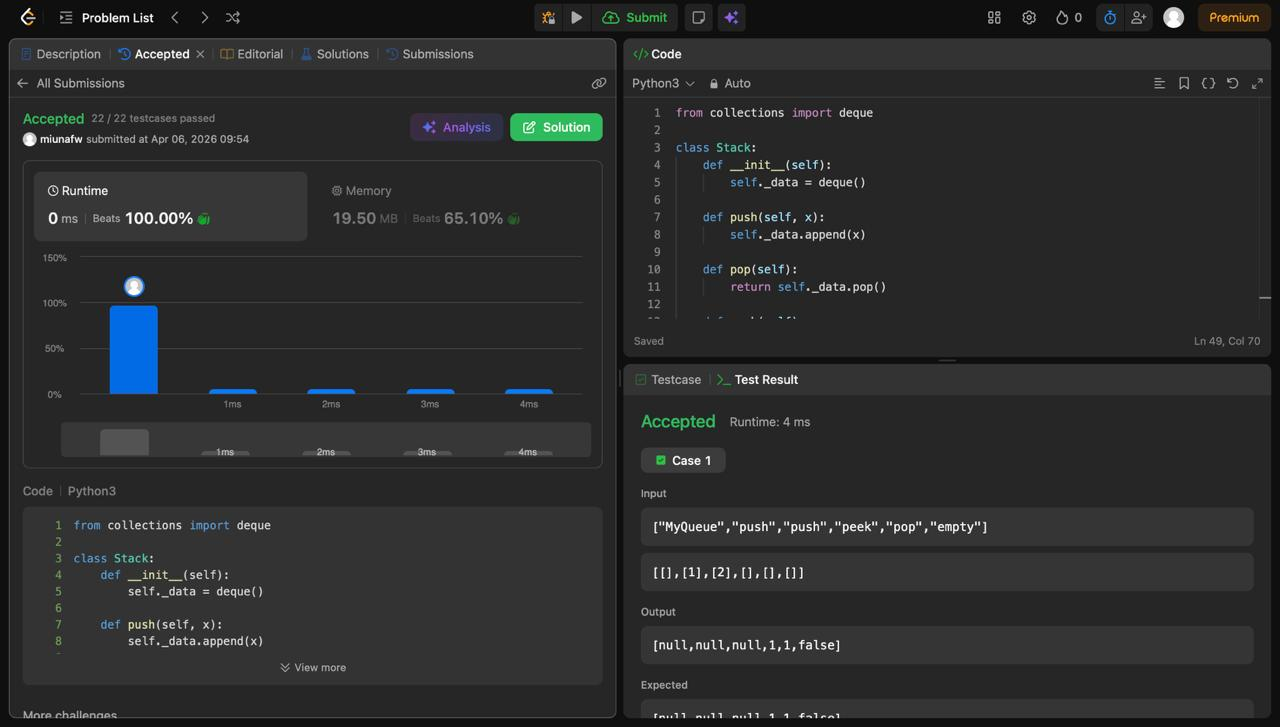
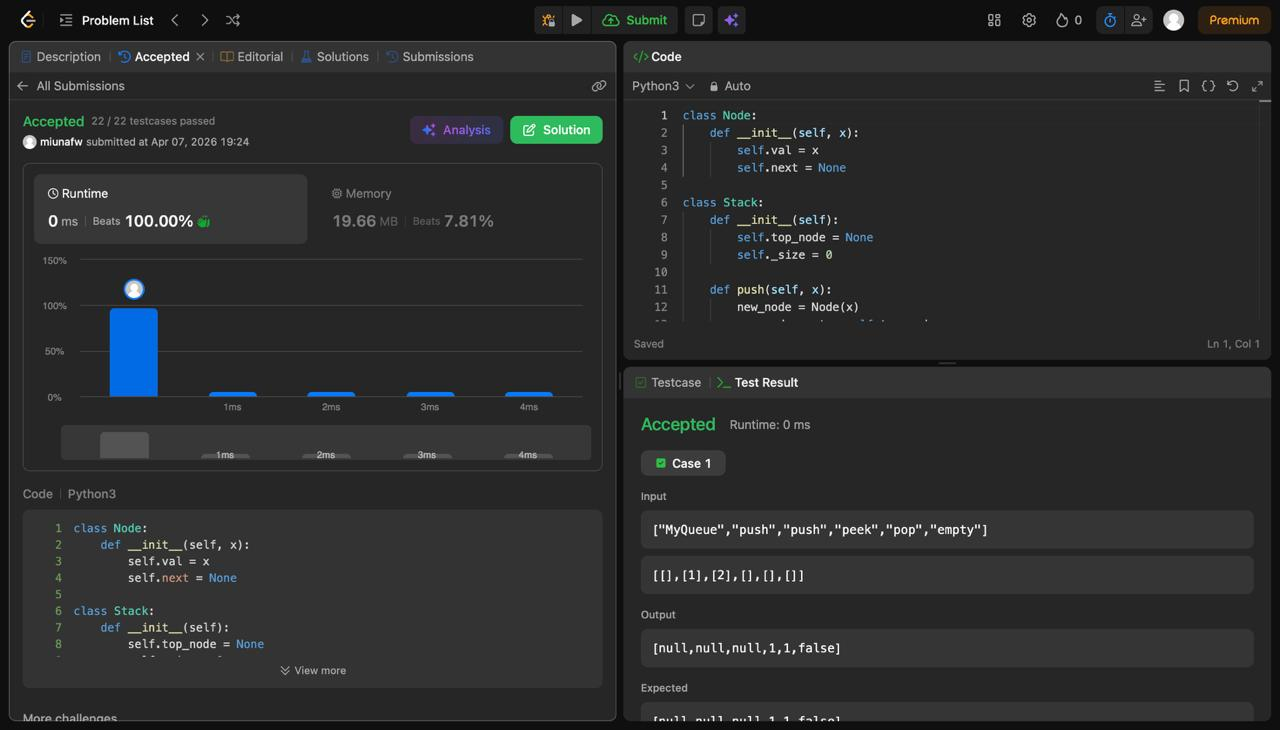
Complete rewrite: use Node-based structures and add test screenshots

diff --git a/Implement-Stack-using-Queues/solution.py b/Implement-Stack-using-Queues/solution.py
@@ -1,44 +1,39 @@
-from collections import deque
+class Node:
+    def __init__(self, x):
+        self.val = x
+        self.next = None
 
 class Queue:
     def __init__(self):
-        self._data = deque()
-
+        self.head = self.tail = None
     def push(self, x):
-        self._data.append(x)
-
+        new_node = Node(x)
+        if not self.tail: self.head = self.tail = new_node
+        else:
+            self.tail.next = new_node
+            self.tail = new_node
     def pop(self):
-        return self._data.popleft()
-
+        res = self.head.val
+        self.head = self.head.next
+        if not self.head: self.tail = None
+        return res
     def peek(self):
-        val = self._data.popleft()
-        self._data.append(val)
-        return val
-
+        return self.head.val
     def is_empty(self):
-        return len(self._data) == 0
-
-    def size(self):
-        return len(self._data)
-
+        return self.head is None
 
 class MyStack:
-
     def __init__(self):
-        self.queue1 = Queue()
-        self.queue2 = Queue()
-
+        self.q1 = Queue()
+        self.q2 = Queue()
     def push(self, x: int) -> None:
-        self.queue2.push(x)
-        while not self.queue1.is_empty():
-            self.queue2.push(self.queue1.pop())
-        self.queue1, self.queue2 = self.queue2, self.queue1
-
+        self.q2.push(x)
+        while not self.q1.is_empty():
+            self.q2.push(self.q1.pop())
+        self.q1, self.q2 = self.q2, self.q1
     def pop(self) -> int:
-        return self.queue1.pop()
-
+        return self.q1.pop()
     def top(self) -> int:
-        return self.queue1.peek()
-
+        return self.q1.peek()
     def empty(self) -> bool:
-        return self.queue1.is_empty()
+        return self.q1.is_empty()

diff --git a/Implement-Queue-using-Stacks/solution.py b/Implement-Queue-using-Stacks/solution.py
@@ -1,49 +1,37 @@
-from collections import deque
+class Node:
+    def __init__(self, x):
+        self.val = x
+        self.next = None
 
 class Stack:
     def __init__(self):
-        self._data = deque()
-
+        self.top_node = None
     def push(self, x):
-        self._data.append(x)
-
+        new_node = Node(x)
+        new_node.next = self.top_node
+        self.top_node = new_node
     def pop(self):
-        return self._data.pop()
-
+        res = self.top_node.val
+        self.top_node = self.top_node.next
+        return res
     def peek(self):
-        val = self._data.pop()
-        self._data.append(val)
-        return val
-
+        return self.top_node.val
     def is_empty(self):
-        return len(self._data) == 0
-
-    def size(self):
-        return len(self._data)
-
-
+        return self.top_node is None
 
 class MyQueue:
-
     def __init__(self):
-        self.stack_in = Stack() 
-        self.stack_out = Stack() 
-
+        self.stack_in = Stack()
+        self.stack_out = Stack()
     def push(self, x: int) -> None:
         self.stack_in.push(x)
-
-    def _transfer(self):
+    def pop(self) -> int:
+        self.peek()
+        return self.stack_out.pop()
+    def peek(self) -> int:
         if self.stack_out.is_empty():
             while not self.stack_in.is_empty():
                 self.stack_out.push(self.stack_in.pop())
-
-    def pop(self) -> int:
-        self._transfer()
-        return self.stack_out.pop()
-
-    def peek(self) -> int:
-        self._transfer()
         return self.stack_out.peek()
-
     def empty(self) -> bool:
         return self.stack_in.is_empty() and self.stack_out.is_empty()
